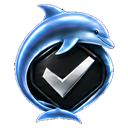
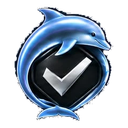
Recut the badge artwork from the master sheet
The previous tiles were cropped four pixels inside the artwork on several tiers: Blue Whale's tail, Tiger Shark's fins, Crab's claws, and the underside of Crocodile and Killer Whale all ended on a straight line. The black was also keyed out from everywhere, which hollowed the shield interiors and let the page show through beside the check mark.

Cut again from the master sheet with a six percent margin, keying black only from the canvas edge inward so the interiors stay solid. The optical baseline insets are re-measured from the new tiles, and the base size is nudged up so the visible mark keeps its footprint beside a name.

diff --git a/libs/misc.ts b/libs/misc.ts
@@ -541,19 +541,19 @@ const BADGE_IMAGES: Record<string, number> = {
 };
 
 const BADGE_OPTICS: Record<string, { scale: number; bottomInset: number }> = {
-  Crab: { scale: 1, bottomInset: 5 },
-  Lobster: { scale: 1.04, bottomInset: 4 },
-  Piranha: { scale: 1, bottomInset: 7 },
-  Tortoise: { scale: 1, bottomInset: 10 },
-  Cobra: { scale: 1, bottomInset: 4 },
-  Octopus: { scale: 1.02, bottomInset: 4 },
-  Crocodile: { scale: 1, bottomInset: 10 },
-  Dolphin: { scale: 1.03, bottomInset: 4 },
-  "Tiger Shark": { scale: 1.03, bottomInset: 5 },
+  Crab: { scale: 1, bottomInset: 8 },
+  Lobster: { scale: 1.04, bottomInset: 7 },
+  Piranha: { scale: 1, bottomInset: 8 },
+  Tortoise: { scale: 1, bottomInset: 11 },
+  Cobra: { scale: 1, bottomInset: 6 },
+  Octopus: { scale: 1.02, bottomInset: 7 },
+  Crocodile: { scale: 1, bottomInset: 11 },
+  Dolphin: { scale: 1.03, bottomInset: 7 },
+  "Tiger Shark": { scale: 1.03, bottomInset: 6 },
   "Killer Whale": { scale: 1.04, bottomInset: 6 },
-  "Great White Shark": { scale: 1.04, bottomInset: 4 },
-  "Blue Whale": { scale: 1.1, bottomInset: 11 },
-  Megalodon: { scale: 1.08, bottomInset: 4 },
+  "Great White Shark": { scale: 1.04, bottomInset: 8 },
+  "Blue Whale": { scale: 1.1, bottomInset: 6 },
+  Megalodon: { scale: 1.08, bottomInset: 10 },
 };
 
 // At compact sizes the source artwork's narrowest transparent edge is less
@@ -571,7 +571,7 @@ export function getBadgeOpticalStyle(
 ) {
   const tier = Object.keys(BADGE_IMAGES).find((name) => BADGE_IMAGES[name] === source);
   const optics = tier ? BADGE_OPTICS[tier] : undefined;
-  const renderedSize = size * 1.15 * (optics?.scale ?? 1);
+  const renderedSize = size * 1.2 * (optics?.scale ?? 1);
   const outerSize = renderedSize + BADGE_ARTWORK_GUTTER * 2;
   // Web sits the visible check on the text baseline. Native centres the
   // font's ascent+descent block inside whatever line box the Text has, so the
